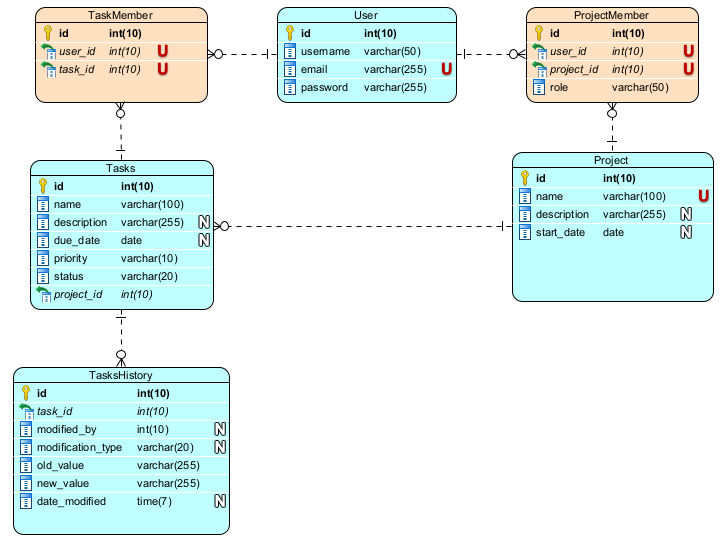
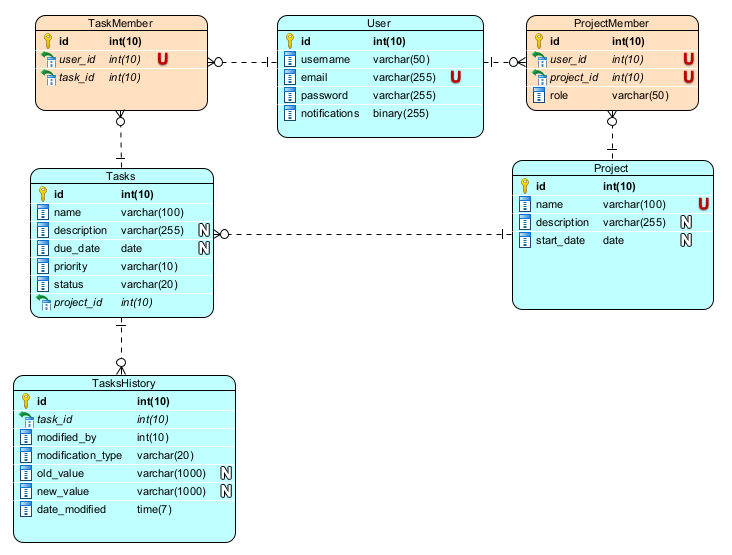
Readme docs and delivery dockerhub (#8)
* readme + dockerhub delivery
* readme + front test coverage report as artifact
* init data + restart to allow db start 'just in case'
* docker tags

Changed region(s): [[0.0305, 0.0, 1.0, 0.5927], [0.0, 0.6239, 0.3352, 0.967], [0.0305, 0.967, 0.3047, 0.9982]]

diff --git a/README.md b/README.md
@@ -1,5 +1,7 @@
 # PMT Project Management Tool
 
+[![CI](https://github.com/aubertaa/pmt/actions/workflows/ci.yml/badge.svg)](https://github.com/aubertaa/pmt/actions/workflows/ci.yml)
+
 ## Description
 PMT est une plateforme de gestion de projet collaboratif destinée aux équipes de développement logiciel.
 L’application permettra aux équipes de planifier, suivre et collaborer sur des projets de manière efficace.
@@ -17,20 +19,87 @@ Le frontend de l'application est développé en utilisant le framework Angular.
 Le backend de l'application est développé en utilisant le framework Spring Boot.
 
 ### Base de données
-La base de données utilisée est MySQL.
+La base de données utilisée est MySQL. (une base in memory H2 est utilisé pour les tests et la phase de développement)
 
 Le modèle de la base de données est le suivant :
 
 ![db_model.png](db_model.png)
 
-
-
-
 ## Fonctionnalités
+
+Les fonctionnalités de l'application sont les suivantes :
+
+- En tant que visiteur, je veux pouvoir m'inscrire avec un nom d’utilisateur, une adresse e-mail et un mot de passe afin d’avoir un compte sur la plateforme.
+- En tant qu’inscrit, je veux pouvoir me connecter à la plateforme avec mon adresse e-mail et mon mot de passe afin de pouvoir accéder à mon espace.
+- En tant qu'utilisateur, je veux pouvoir créer un nouveau projet avec un nom, une description et une date de début afin d’être un administrateur du projet.
+- En tant qu'administrateur d’un projet, je veux pouvoir inviter d'autres membres à rejoindre mon projet en saisissant leur adresse e-mail afin de partager le projet.
+- En tant qu’administrateur d’un projet, je veux pouvoir attribuer des rôles aux membres du projet (administrateur, membre, observateur) afin de définir leurs permissions.
+- En tant qu'administrateur ou membre d’un projet, je veux pouvoir créer des tâches pour mon projet avec un nom, une description, une date d'échéance et une priorité.
+- En tant qu'administrateur ou membre, je veux pouvoir assigner des tâches à des membres spécifiques du projet.
+- En tant qu’administrateur ou membre, je veux pouvoir mettre à jour une tâche afin de changer n’importe quelle information ou ajouter une date de fin.
+- En tant qu’administrateur, membre ou observateur, je veux pouvoir visualiser une tâche unitaire afin d’en voir toutes les informations.
+- En tant qu’administrateur, membre ou observateur, je veux pouvoir visualiser les tâches selon les statuts afin de suivre l'avancement des tâches sur un tableau de bord.
+- En tant qu’administrateur, membre ou observateur, je veux pouvoir recevoir des notifications par e-mail lorsqu'une tâche est assignée.
+- En tant qu’administrateur, membre ou observateur, je veux pouvoir suivre l'historique des modifications apportées aux tâches.
+
+Voici un résumé des permissions en fonction des rôles:
+
+![permissions.png](permissions.png)
+
+## Documentation
+
+### JavaDoc 
+
+- La documentation JavaDoc du projet est disponible dans le dossier `backend/doc/`
+
+### Swagger UI
+
+- Une documentation dynamique OpenAPI au format Swagger est disponible à l'adresse suivante, une fois l'application démarrée sur votre poste : `http://localhost:8081/swagger-ui.html`
 
 ## Procédure de build / validation
 
+- Github Actions a été utilisé pour la CI/CD du projet.
+- Les étapes de build et de validation sont disponibles dans le fichier `.github/workflows/ci.yml`, elles incluent:
+  - compilation du code Java
+  - exécution des tests unitaires
+  - compilation du code Angular
+  - exécution des tests unitaires Angular
+  - création des images Docker via `docker-compose`
+  - run des tests au niveau système :
+    - réponse de l'api, de l'interface, de la base de données, de l'interface swagger
+  - push des images Docker sur le Docker Hub (https://hub.docker.com/u/aubertaa)
+
+- La CI est déclenchée automatiquement lors du push dans le dépôt Github.
+- Pour déclencher un build en local, il suffit de lancer la commande suivante à la racine du projet:
+
+```bash
+docker-compose build
+```
+
 ## Procédure de déploiement
+
+- Le déploiement est automatisé grâce à l'usage de docker-compose. Il suffit de lancer la commande suivante pour démarrer l'application sur votre poste/un serveur de production:
+
+```bash
+docker-compose up --no-build
+```
+
+## Liens utiles
+
+### Sources et livrables
+- [Github repository](https://github.com/aubertaa/pmt/)
+- [Docker Hub](https://hub.docker.com/u/aubertaa)
+- [Github Actions](https://github.com/aubertaa/pmt/actions)
+- [Artifacts de CI](https://github.com/aubertaa/pmt/actions/workflows/ci.yml) (click on last run to see the artifacts)
+  - Rapport de test backend (avec couverture)
+  - Rapport de test frontend (avec couverture)
+  - Binaire autonome de l'application backend
+
+### Accès à l'application
+- [Swagger UI](http://localhost:8081/swagger-ui.html)
+- [Angular App](http://localhost:4201)
+- [Spring Boot App](http://localhost:8081)
+
 
 
 
